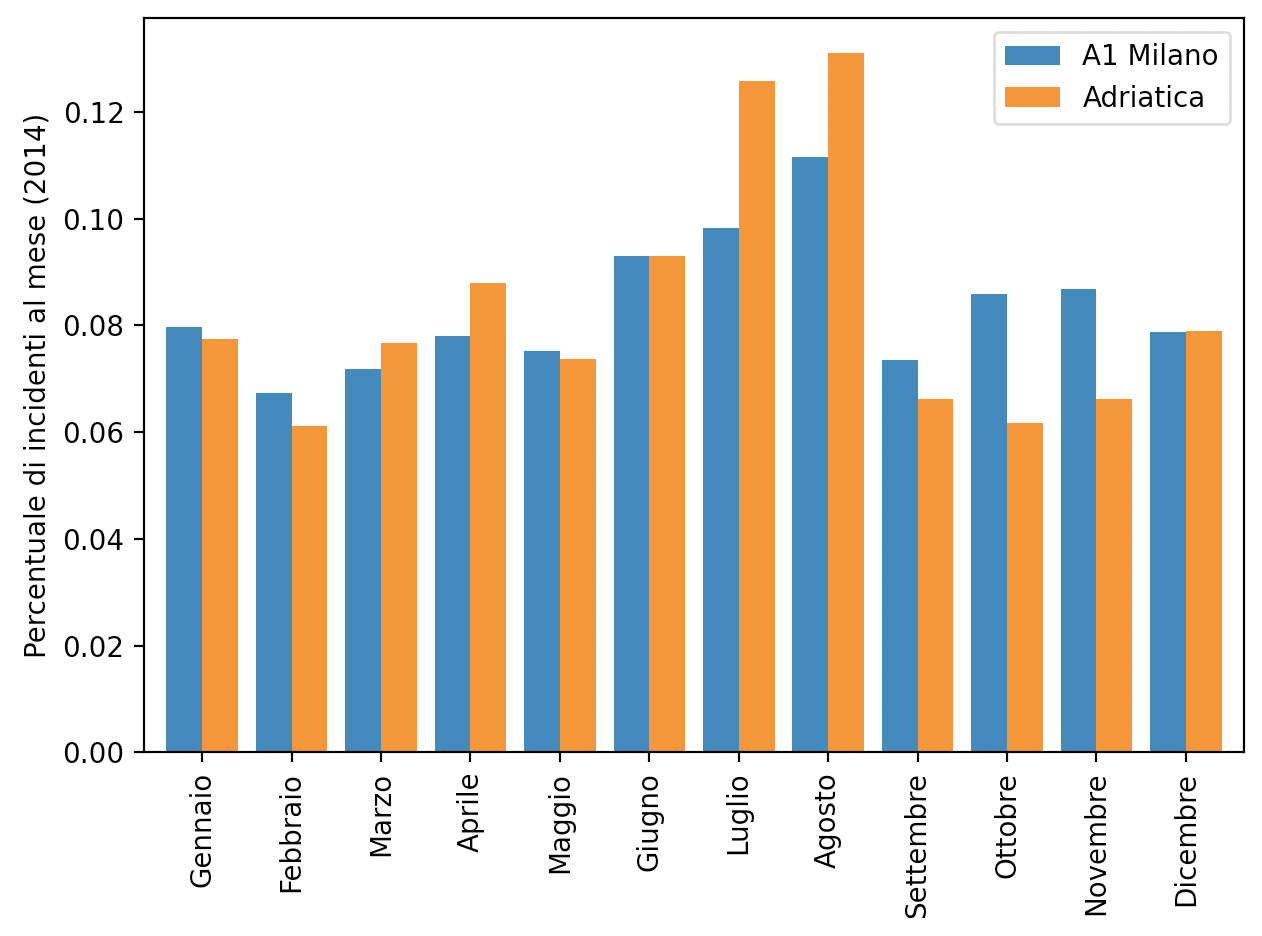
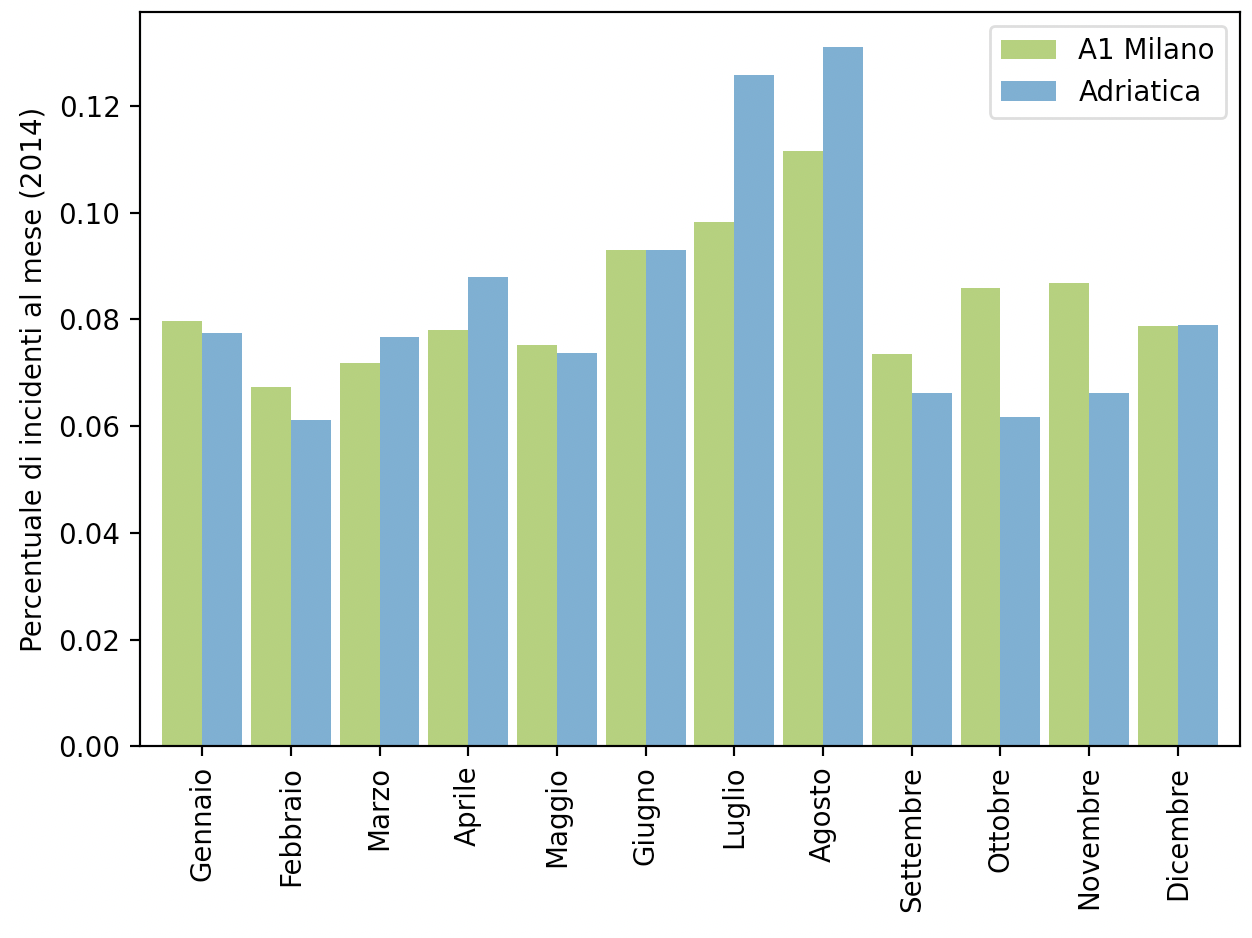
altre modifiche a grafi

diff --git a/src/incidenti/incidenti_aci/autostrade/milano_adriatica.py b/src/incidenti/incidenti_aci/autostrade/milano_adriatica.py
@@ -2,7 +2,7 @@
 import pandas as pd
 import matplotlib.pyplot as plt
 
-data = pd.read_csv("dataset/incidenti/aci/autostrade/mesi_2012.csv")
+data = pd.read_csv("dataset/incidenti/aci/autostrade/mesi_2018.csv")
 
 lombardia = data[data['REGIONE'] == 'Lombardia'][['PROVINCIA', 'TOTALE']]
 
@@ -36,7 +36,7 @@ a1 = sum_columns(a1[mesi], normalize=True)
 a1_milano = sum_columns(a1_milano[mesi], normalize=True)
 adriatica = sum_columns(adriatica[mesi], normalize=True)
 
-df = pd.DataFrame([a1, adriatica], ['A1 Milano', 'Adriatica']).transpose().plot.bar(width=0.8)
-plt.ylabel("Percentuale di incidenti al mese (2014)")
+df = pd.DataFrame([a1, adriatica], ['A1 Milano', 'Adriatica']).transpose().plot.bar(width=0.9, color=['#a1cc61', '#61a1cc'])
+plt.ylabel("Percentuale di incidenti al mese (2018)")
 plt.tight_layout()
 plt.show()

diff --git a/tesi/Tesi.tex b/tesi/Tesi.tex
@@ -1758,7 +1758,7 @@ Invece sull'Adriatica, raffigurata nel grafo \ref{fig:milano-adriatica},
 prevalgono incidenti in Luglio e Agosto.
 
 \begin{figure}
-    \includegraphics[width=\linewidth]{../src/incidenti/incidenti_aci/autostrade/milano_adriatica.png}
+    \includegraphics[width=\linewidth]{../src/incidenti/incidenti_aci/autostrade/milano_adriatica_2018.png}
     \caption{Incidenti in provincia di Milano (A1) e sull'Adriatica}
     \label{fig:milano-adriatica}
 \end{figure}
